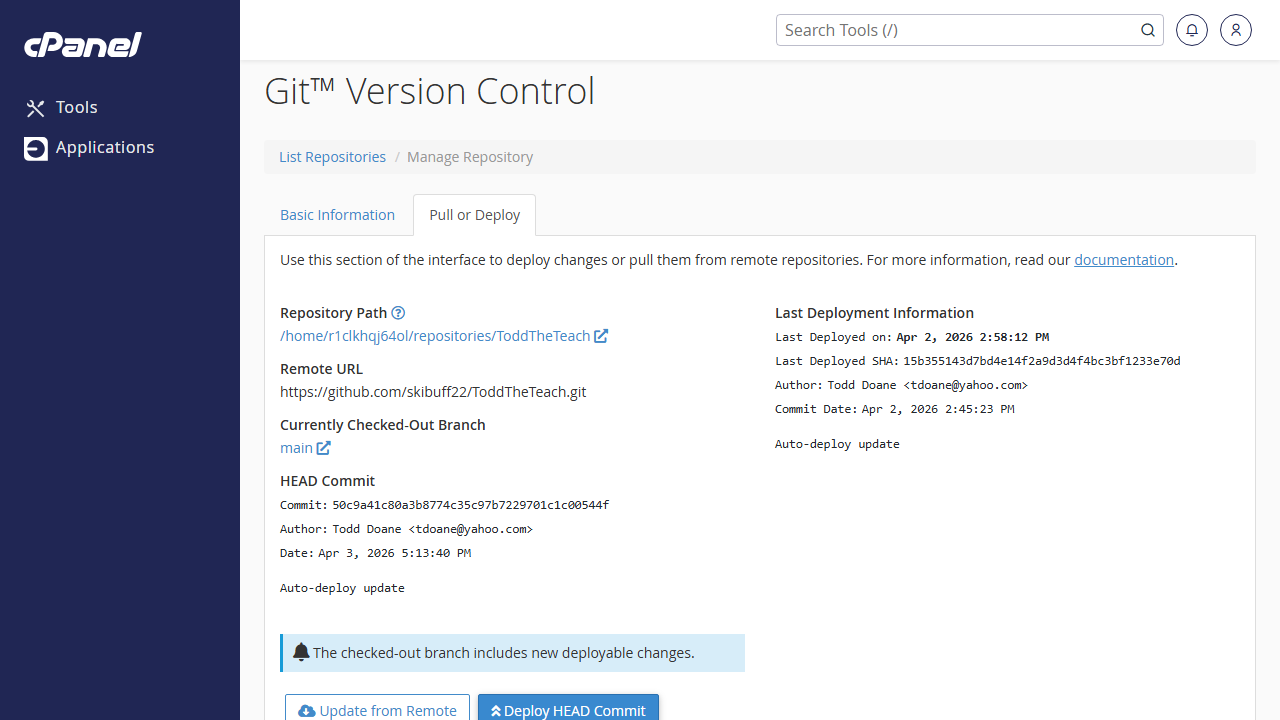
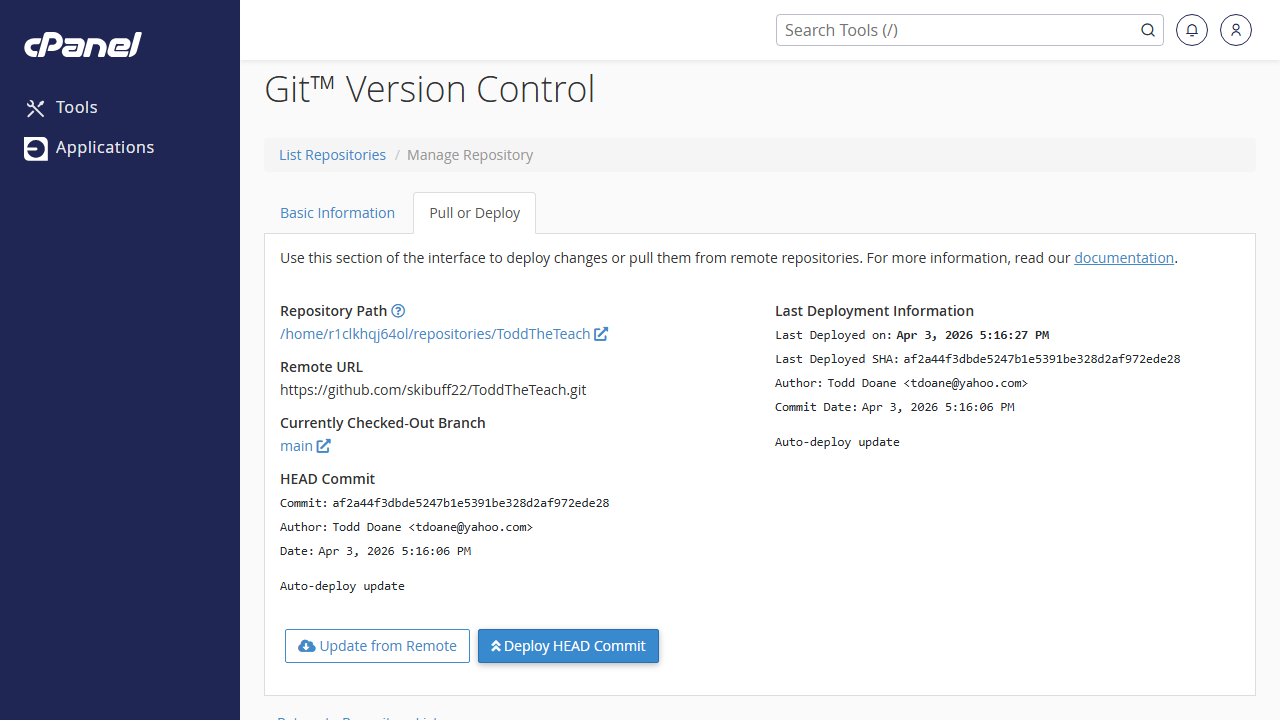
Auto-deploy update

diff --git a/index.html b/index.html
@@ -277,20 +277,20 @@
             <div class="progress-item" style="margin-bottom: 1rem;">
               <div style="display: flex; justify-content: space-between; font-size: 0.85rem; margin-bottom: 0.4rem;">
                 <span style="font-weight: 600;">Overall Phase</span>
-                <!-- CALYX_PHASE_TEXT_START --><span id="calyx-phase-text" style="color: #bbb;">Phase 1 of 6</span><!-- CALYX_PHASE_TEXT_END -->
+                <!-- CALYX_PHASE_TEXT_START --><span id="calyx-phase-text" style="color: #bbb;">Phase 4 of 6</span><!-- CALYX_PHASE_TEXT_END -->
               </div>
               <div style="height: 6px; background: rgba(255,255,255,0.1); border-radius: 3px; overflow: hidden;">
-                <!-- CALYX_PHASE_BAR_START --><div id="calyx-phase-bar" style="height: 100%; width: 16%; background: var(--accent); transition: width 1s ease-in-out; border-radius: 3px;"></div><!-- CALYX_PHASE_BAR_END -->
+                <!-- CALYX_PHASE_BAR_START --><div id="calyx-phase-bar" style="height: 100%; width: 66%; background: var(--accent); transition: width 1s ease-in-out; border-radius: 3px;"></div><!-- CALYX_PHASE_BAR_END -->
               </div>
             </div>
 
             <div class="progress-item">
               <div style="display: flex; justify-content: space-between; font-size: 0.85rem; margin-bottom: 0.4rem;">
                 <span style="font-weight: 600;">Current Sprint</span>
-                <!-- CALYX_SPRINT_TEXT_START --><span id="calyx-sprint-text" style="color: #bbb;">Sprint 1 of 16</span><!-- CALYX_SPRINT_TEXT_END -->
+                <!-- CALYX_SPRINT_TEXT_START --><span id="calyx-sprint-text" style="color: #bbb;">Sprint 9 of 16</span><!-- CALYX_SPRINT_TEXT_END -->
               </div>
               <div style="height: 6px; background: rgba(255,255,255,0.1); border-radius: 3px; overflow: hidden;">
-                <!-- CALYX_SPRINT_BAR_START --><div id="calyx-sprint-bar" style="height: 100%; width: 6%; background: linear-gradient(90deg, var(--accent) 0%, rgba(255,255,255,0.8) 100%); transition: width 1s ease-in-out; border-radius: 3px;"></div><!-- CALYX_SPRINT_BAR_END -->
+                <!-- CALYX_SPRINT_BAR_START --><div id="calyx-sprint-bar" style="height: 100%; width: 56%; background: linear-gradient(90deg, var(--accent) 0%, rgba(255,255,255,0.8) 100%); transition: width 1s ease-in-out; border-radius: 3px;"></div><!-- CALYX_SPRINT_BAR_END -->
               </div>
             </div>
           </div>

diff --git a/executions/update_calyx_progress.py b/executions/update_calyx_progress.py
@@ -1,6 +1,7 @@
 import os
 import re
 import pandas as pd
+import openpyxl
 from datetime import datetime
 import sys
 
@@ -10,8 +11,45 @@ sys.path.insert(0, os.path.join(base_dir, "executions"))
 import deploy_now
 import deploy_cpanel
 
+def map_backlog_to_sprint(file_path):
+    # Reads Backlog and computes sprint statuses mathematically
+    xl = pd.ExcelFile(file_path)
+    df_backlog = xl.parse("Backlog")
+    
+    sprint_status_map = {}
+    
+    for sprint_val, group in df_backlog.groupby('Sprint'):
+        if pd.isna(sprint_val):
+            continue
+            
+        sprint = None
+        try:
+            sprint = int(float(sprint_val))
+        except:
+            continue
+            
+        statuses = group['Status'].astype(str).str.strip().tolist()
+        # Drop nan and empty
+        valid_statuses = [s for s in statuses if s and s.lower() != 'nan' and s.lower() != 'none']
+        
+        if not valid_statuses:
+            sprint_status_map[sprint] = 'Not Started'
+            continue
+            
+        all_done = all(s in ['Done', 'Completed'] for s in valid_statuses)
+        any_in_progress = any(s in ['In Progress', 'Done', 'Completed'] for s in valid_statuses)
+        
+        if all_done:
+            sprint_status_map[sprint] = 'Completed'
+        elif any_in_progress:
+            sprint_status_map[sprint] = 'In Progress'
+        else:
+            sprint_status_map[sprint] = 'Not Started'
+            
+    return sprint_status_map
+
 def update_calyx_progress():
-    print(f"[{datetime.now()}] Reading Calyx AI Project Tracker...")
+    print(f"[{datetime.now()}] Updating Calyx AI Project Tracker...")
     
     file_path = r"C:\Users\tdoan\GitHub\Calyx-Ai.net\Project-Tracker.xlsx"
     index_html_path = os.path.join(base_dir, "index.html")
@@ -21,53 +59,126 @@ def update_calyx_progress():
         return False
 
     try:
-        xl = pd.ExcelFile(file_path)
+        # 1. Math computation from Backlog
+        sprint_status_map = map_backlog_to_sprint(file_path)
+        print("Computed Sprint Statuses from Backlog:", sprint_status_map)
+
+        # 2. Open Workbook with openpyxl to edit cells losslessly
+        wb = openpyxl.load_workbook(file_path)
         
-        # 1. Parse Phase
-        df_dash = xl.parse("Dashboard", skiprows=3)
-        df_dash.columns = df_dash.iloc[0] # First row is headers
-        df_dash = df_dash[1:]             # Drop the header row itself
-        # Drop rows where Phase is NaN or 'Phase' string
-        df_dash = df_dash[pd.to_numeric(df_dash['Phase'], errors='coerce').notnull()]
+        ws_sprint = wb["Sprint Plan"]
+        # Update Sprint Plan and collect Phase lists
+        phase_sprint_statuses = {} # Dict of Phase -> List of Sprint Statuses
         
+        for r in range(2, 50):
+            val_sprint = ws_sprint.cell(row=r, column=1).value
+            val_phase = ws_sprint.cell(row=r, column=3).value
+            
+            if val_sprint is None:
+                continue
+                
+            try:
+                sprint_num = int(float(val_sprint))
+            except:
+                continue
+                
+            # Update Sprint Plan Status column (7)
+            if sprint_num in sprint_status_map:
+                new_status = sprint_status_map[sprint_num]
+                ws_sprint.cell(row=r, column=7).value = new_status
+            else:
+                new_status = 'Not Started'
+                ws_sprint.cell(row=r, column=7).value = new_status
+                
+            # Collect for Phase rollup
+            if val_phase:
+                phase_str = str(val_phase).replace("Phase", "").strip()
+                try:
+                    phase_num = int(float(phase_str))
+                    if phase_num not in phase_sprint_statuses:
+                        phase_sprint_statuses[phase_num] = []
+                    phase_sprint_statuses[phase_num].append(new_status)
+                except:
+                    pass
+
+        # Calculate Phase statuses
+        phase_status_map = {}
+        for phase_num, statuses in phase_sprint_statuses.items():
+            if all(s == 'Completed' for s in statuses):
+                phase_status_map[phase_num] = 'Completed'
+            elif any(s in ['In Progress', 'Completed'] for s in statuses):
+                phase_status_map[phase_num] = 'In Progress'
+            else:
+                phase_status_map[phase_num] = 'Not Started'
+                
+        print("Computed Phase Statuses:", phase_status_map)
+        
+        # Update Dashboard
+        ws_dash = wb["Dashboard"]
+        # Also update the "Last Updated" text
+        for r in range(1, 4):
+            if str(ws_dash.cell(row=r, column=1).value).startswith("Last Updated:"):
+                ws_dash.cell(row=r, column=1).value = f"Last Updated: {datetime.now().strftime('%B %d, %Y')}"
+                
+        for r in range(5, 50):
+            val_phase = ws_dash.cell(row=r, column=1).value
+            if val_phase is None:
+                continue
+                
+            try:
+                phase_num = int(float(val_phase))
+                if phase_num in phase_status_map:
+                    ws_dash.cell(row=r, column=4).value = phase_status_map[phase_num]
+            except:
+                continue
+
+        # Save workbook
+        try:
+            wb.save(file_path)
+            print("Saved updated Project-Tracker.xlsx.")
+        except PermissionError:
+            print(f"Warning: Could not save to {file_path} because it is currently open in Excel. Website calculation will proceed with computed values.")
+        except Exception as e:
+            print(f"Warning: Could not save Excel file: {e}")
+        
+        # 3. Determine explicit active Sprint and Phase for Website
         total_phases = 6
         current_phase = 1
         
-        in_progress_phases = df_dash[df_dash['Status'] == 'In Progress']
-        if not in_progress_phases.empty:
-            current_phase = int(in_progress_phases.iloc[0]['Phase'])
+        # Find active phase
+        in_prog_phases = [k for k, v in phase_status_map.items() if v == 'In Progress']
+        if in_prog_phases:
+            current_phase = max(in_prog_phases) # If multiple are somehow parallel, take the highest
         else:
-            completed_phases = df_dash[df_dash['Status'] == 'Completed']
-            if not completed_phases.empty:
-                current_phase = int(completed_phases['Phase'].max())
-        
+            comp_phases = [k for k, v in phase_status_map.items() if v == 'Completed']
+            if comp_phases:
+                current_phase = max(comp_phases)
+                
         phase_pct = min(100, int((current_phase / total_phases) * 100))
 
-        # 2. Parse Sprint
-        df_sprint = xl.parse("Sprint Plan")
-        df_sprint = df_sprint[pd.to_numeric(df_sprint['Sprint'], errors='coerce').notnull()]
-        
-        # User requested representation out of 16 weeks/sprints
+        # Find active sprint
         total_sprints_rep = 16 
         current_sprint = 1
         
-        in_progress_sprints = df_sprint[df_sprint['Status'] == 'In Progress']
-        if not in_progress_sprints.empty:
-            current_sprint = int(in_progress_sprints.iloc[-1]['Sprint'])
+        # Any that are 'In progress'
+        in_prog_sprints = [k for k, v in sprint_status_map.items() if v == 'In Progress']
+        if in_prog_sprints:
+            current_sprint = max(in_prog_sprints)
         else:
-            completed_sprints = df_sprint[df_sprint['Status'] == 'Completed']
-            if not completed_sprints.empty:
-                current_sprint = int(completed_sprints['Sprint'].max())
+            comp_sprints = [k for k, v in sprint_status_map.items() if v == 'Completed']
+            if comp_sprints:
+                max_comp = max(comp_sprints)
+                # If sprint 8 is completed, the user is starting Sprint 9
+                current_sprint = min(total_sprints_rep, max_comp + 1)
                 
         sprint_pct = min(100, int((current_sprint / total_sprints_rep) * 100))
         
-        print(f"Extracted -> Phase: {current_phase}/{total_phases} ({phase_pct}%), Sprint: {current_sprint}/{total_sprints_rep} ({sprint_pct}%)")
+        print(f"Website values -> Phase: {current_phase}/{total_phases} ({phase_pct}%), Sprint: {current_sprint}/{total_sprints_rep} ({sprint_pct}%)")
 
-        # 3. Modify HTML
+        # 4. Modify HTML
         with open(index_html_path, "r", encoding="utf-8") as f:
             html = f.read()
 
-        # Regex replacements
         html = re.sub(
             r'<!-- CALYX_PHASE_TEXT_START -->.*?<!-- CALYX_PHASE_TEXT_END -->',
             f'<!-- CALYX_PHASE_TEXT_START --><span id="calyx-phase-text" style="color: #bbb;">Phase {current_phase} of {total_phases}</span><!-- CALYX_PHASE_TEXT_END -->',
@@ -101,7 +212,7 @@ def update_calyx_progress():
             
         print("Updated index.html successfully.")
         
-        # 4. Trigger Deployment
+        # 5. Trigger Deployment
         print("Triggering deployment with deploy_now...")
         os.chdir(base_dir) # ensure we are in the repo root for git commands
         deploy_now.deploy_cpanel_git()

diff --git a/executions/exec_tmp.py b/executions/exec_tmp.py
@@ -1,17 +1,22 @@
-import pandas as pd
-import sys
+import openpyxl
 
 file_path = r"C:\Users\tdoan\GitHub\Calyx-Ai.net\Project-Tracker.xlsx"
 
-try:
-    xl = pd.ExcelFile(file_path)
-    print("----- DASHBOARD -----")
-    df_dash = xl.parse("Dashboard", skiprows=3) # Row 3 in 0-index was the header
-    print(df_dash.head(10).to_string())
-    
-    print("\n----- SPRINT PLAN -----")
-    df_sprint = xl.parse("Sprint Plan")
-    print(df_sprint.head(15).to_string())
-    
-except Exception as e:
-    print(f"Error reading Excel: {e}")
+wb = openpyxl.load_workbook(file_path)
+
+print("--- Sprint Plan ---")
+ws = wb["Sprint Plan"]
+for r in range(1, 20):
+    valA = ws.cell(row=r, column=1).value
+    valG = ws.cell(row=r, column=7).value
+    if valA:
+        print(f"Row {r}: Sprint {valA} | Status: {valG}")
+
+print("\n--- Dashboard ---")
+wd = wb["Dashboard"]
+for r in range(1, 15):
+    valA = wd.cell(row=r, column=1).value
+    valD = wd.cell(row=r, column=4).value
+    if valA:
+        print(f"Row {r}: Phase {valA} | Status: {valD}")
+

diff --git a/qa_report_toddtheteach_com.md b/qa_report_toddtheteach_com.md
@@ -1,9 +1,9 @@
-# QA Report for https://toddtheteach.com/?cachebreak=999
+# QA Report for https://toddtheteach.com/?cachebreak=deploy
 
 Pages Crawled: 4
 
 ## 1. Broken Links & Errors
-- https://toddtheteach.com/?cachebreak=999 (Status: DEPLOYMENT FAILURE: Expected text 'Development Tracker' not found on live site.)
+No broken links found on crawled pages.
 
 ## 2. Image Issues
 **Broken Images:** 0
